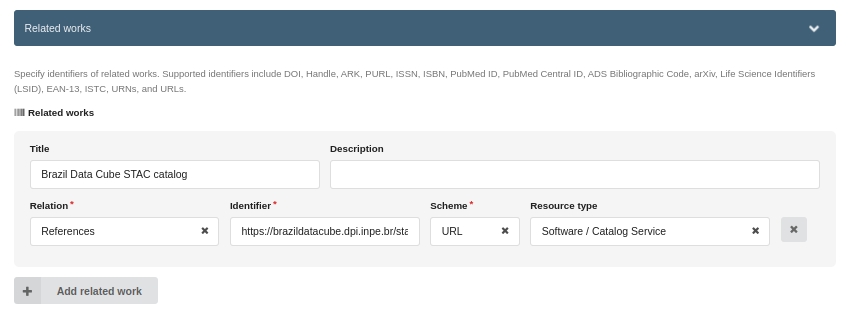
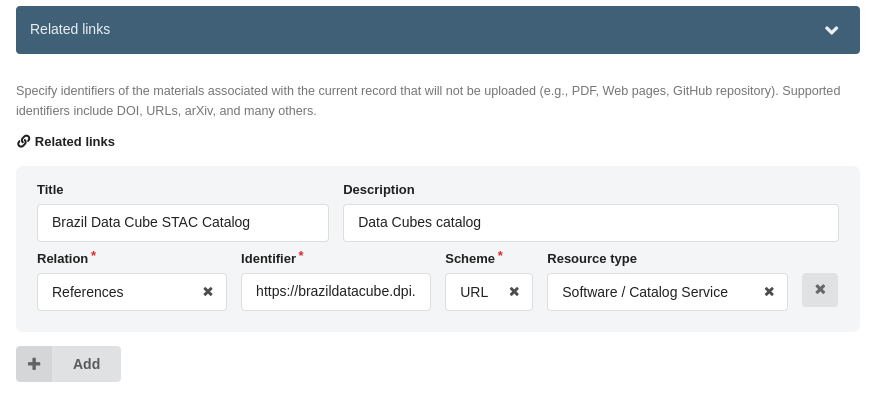
docs: updating related links field

diff --git a/docs/user-guideline/knowledge-provider/creating/3_filling-metadata.md b/docs/user-guideline/knowledge-provider/creating/3_filling-metadata.md
@@ -190,11 +190,11 @@ To help you fill in this metadata, below is a table where each field is describe
         />
     </TabItemContent>
     <TabItemContent
-        value="related-works"
-        label="Related works"
+        value="related-links"
+        label="Related Links"
     >
-        <h2>Related works</h2>
-        The <code>Related works</code> section is where you can define all the works related to the <i>Knowledge Package</i> you are creating. This includes all kinds of material, from presentations to other <i>Knowledge Packages</i>.
+        <h2>Related links</h2>
+        The <code>Related links</code> section is where you can define all the materials related to the <i>Knowledge Package</i> you are creating. This includes all kinds of material, from presentations to other <i>Knowledge Packages</i>.
         <br />
         <br />
         <div>
@@ -202,7 +202,7 @@ To help you fill in this metadata, below is a table where each field is describe
         </div>
         <ImageContent
             imagePath={KnowledgeDepositSectionRelatedWorksFigure}
-            imageAlt={"Related works section"}
+            imageAlt={"Related links section"}
         />
     </TabItemContent>
 </Tabs>
